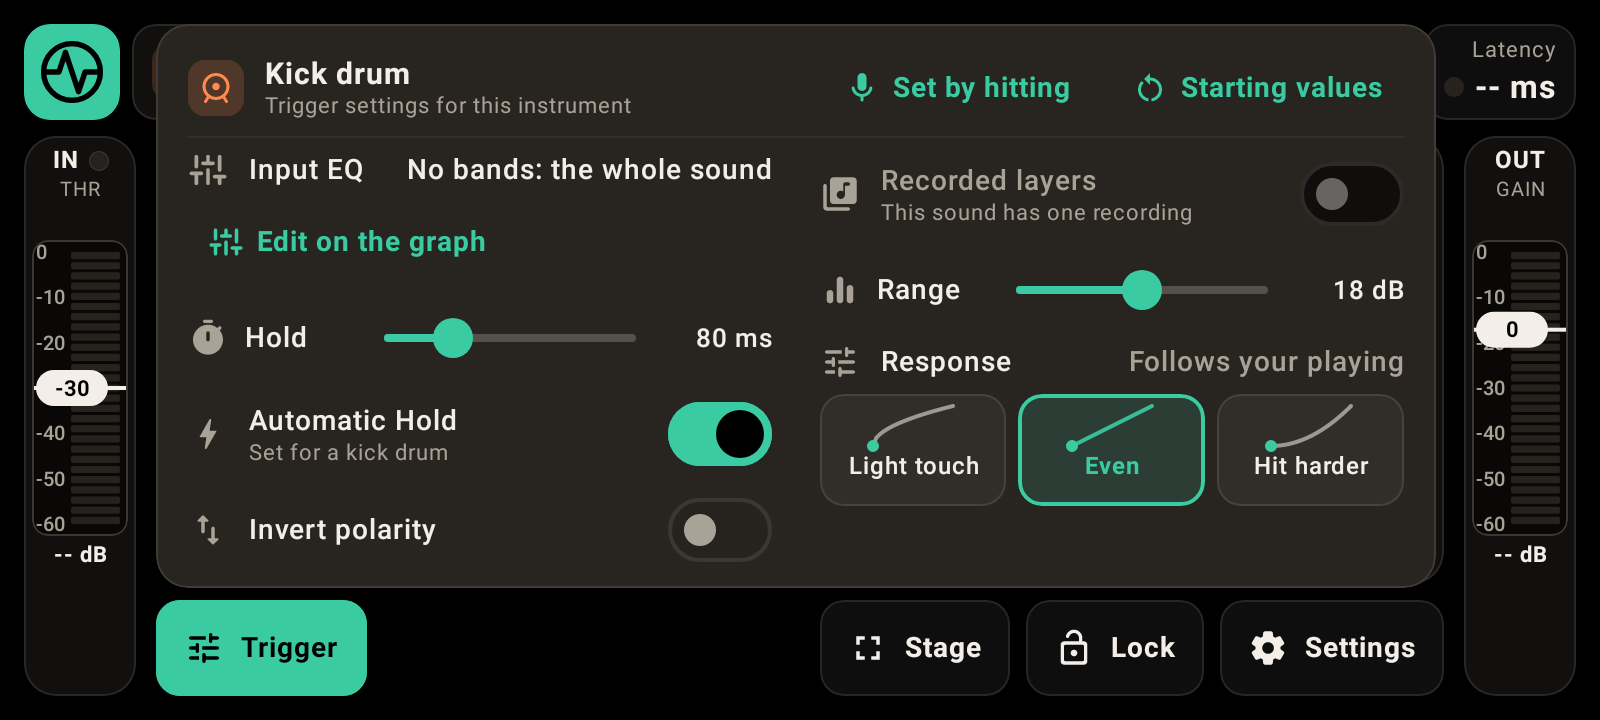
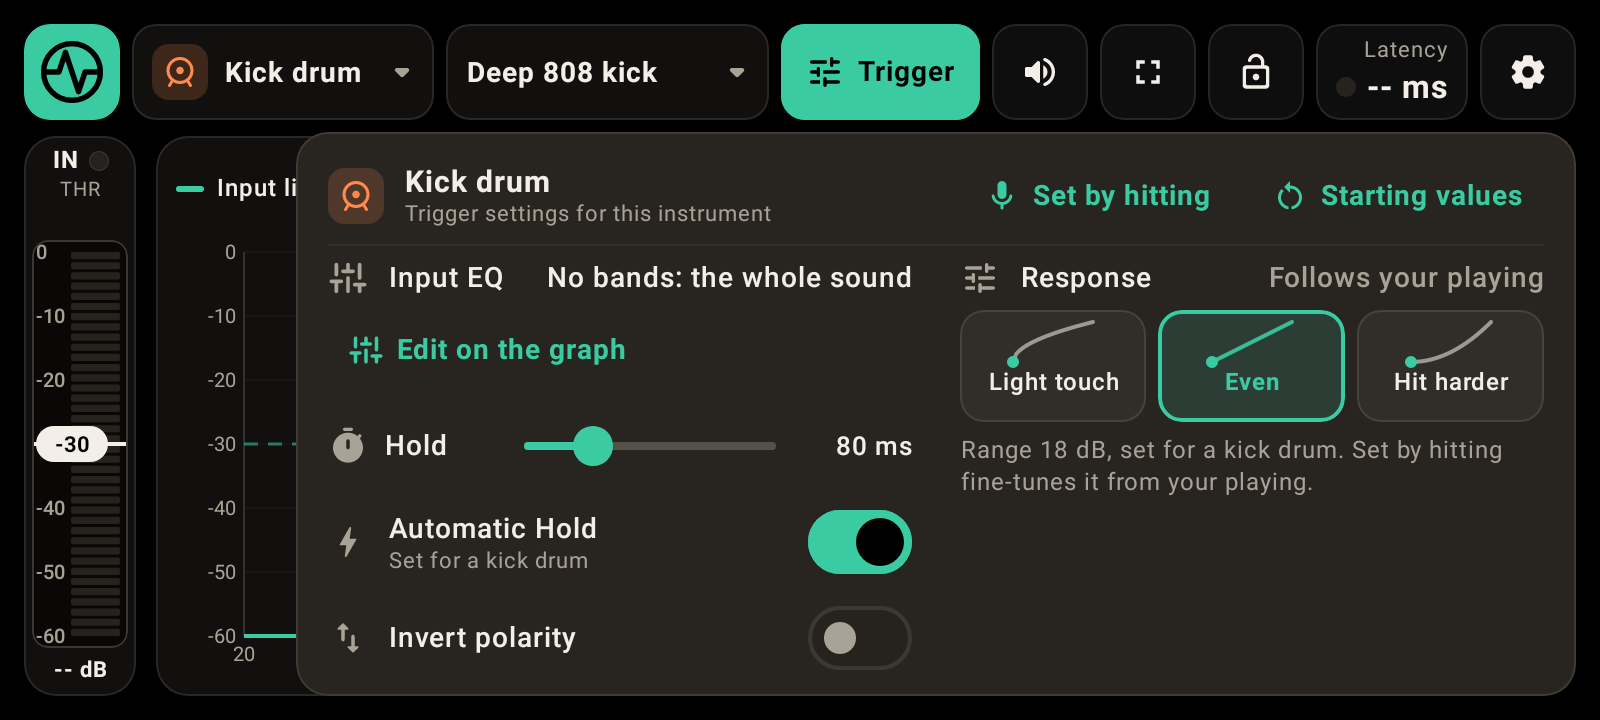
README: DrumTrig 1.1 plays recorded drum sounds only; current Trigger menu (#7)
* Explain what this repository holds and how to install DrumTrig

Claude-Session: https://claude.ai/code/session_01CanfjeTbmMFMTTSnr8zzQ8

* Point to the new Settings layout and the in-app update

Claude-Session: https://claude.ai/code/session_01CanfjeTbmMFMTTSnr8zzQ8

* README: DrumTrig checks for updates each time it opens (0.24.0)

Claude-Session: https://claude.ai/code/session_01CanfjeTbmMFMTTSnr8zzQ8

* README: what DrumTrig does, with screenshots; current Settings names

Claude-Session: https://claude.ai/code/session_01CanfjeTbmMFMTTSnr8zzQ8

* README: Input EQ, the sample editor and the limiter, with current screenshots

The page still described the trigger filter and a per-sample EQ. It now
describes Input EQ on the graph, the two-step sample editor, automatic
Hold, the limiter that keeps the output from clipping, and where the
latency comes from. The pictures are from 0.41.1, with two new ones of
the sample editor.

Claude-Session: https://claude.ai/code/session_01CanfjeTbmMFMTTSnr8zzQ8

* README: the Liquid Glass theme, with a screenshot

Claude-Session: https://claude.ai/code/session_01CanfjeTbmMFMTTSnr8zzQ8

* README: DrumTrig 1.0.0 is signed with a private key; how to move from 0.x

Claude-Session: https://claude.ai/code/session_01CanfjeTbmMFMTTSnr8zzQ8

* README: DrumTrig 1.1.0 plays recorded drum sounds only; current Trigger menu

Claude-Session: https://claude.ai/code/session_01CanfjeTbmMFMTTSnr8zzQ8

---------

diff --git a/README.md b/README.md
@@ -8,7 +8,7 @@
 
 - **Triggers from any mic.** Set the threshold (THR) on the IN meter, and shape the incoming sound with **Input EQ** on the graph, so only your drum fires the sound and the rest of the kit doesn't. The graph shows the sound as the trigger hears it.
 - **Set by hitting.** Leave the drum alone for a moment, hit it a few times, and DrumTrig suggests the threshold, the Input EQ cuts and the hold time for you. Even without it, Hold sets itself for each kind of drum, and you can still change it.
-- **Plays the sound you choose.** Bundled sounds, recorded drum kits (a free download inside the app), or your own samples. Every sample opens in the sample editor: trim it to the hit, fade the end, set its level, then shape it with its own EQ. The file itself is never changed.
+- **Plays the sound you choose.** Recorded drum kits (a free download offered when you first open DrumTrig), or your own samples. Every sample opens in the sample editor: trim it to the hit, fade the end, set its level, then shape it with its own EQ. The file itself is never changed.
 - **Never clips.** However hard you hit and however high GAIN goes, a limiter turns only the loudest moments down, with no added delay.
 - **Shows its delay.** The latency of every hit is measured and shown, and **Settings › Latency** explains where it comes from, with settings to bring it down.
 - **Made for the stage.** A big-type Stage view, Lock so nothing changes mid-song by accident, Mute, a message if your audio device disconnects, and a light and a dark look.
@@ -16,7 +16,7 @@
 
 | | |
 |---|---|
-| ![The Trigger menu: Input EQ, Hold, Automatic Hold, Range and Response](screenshots/trigger-menu.png) | ![Set by hitting, showing the threshold, Input EQ cuts and hold it found](screenshots/set-by-hitting.png) |
+| ![The Trigger menu: Input EQ, Hold, Automatic Hold, Invert polarity and Response](screenshots/trigger-menu.png) | ![Set by hitting, showing the threshold, Input EQ cuts and hold it found](screenshots/set-by-hitting.png) |
 | **Trigger menu**: when a hit counts and how it plays, kept per instrument. | **Set by hitting**: the threshold, the Input EQ cuts and the hold, found from the drum itself. |
 | ![Input EQ on the graph, with four bands](screenshots/eq.png) | ![The Stage view: the instrument, the input meter, a big latency figure](screenshots/stage.png) |
 | **Input EQ**: up to seven bands per instrument, shaping what reaches THR. | **Stage**: what matters mid-song, readable from behind the kit. |
